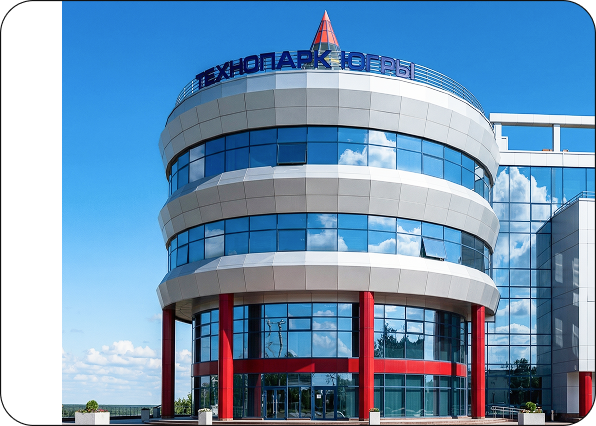
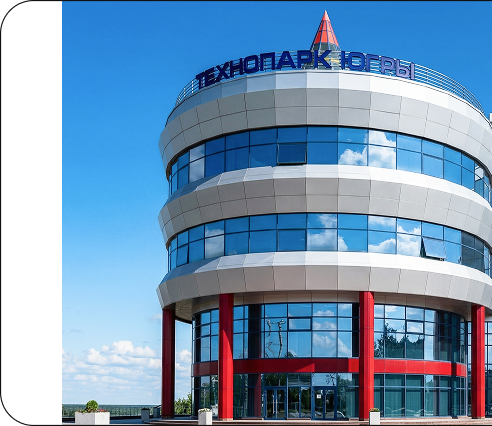
Фикс Hero

diff --git a/src/components/Hero.css b/src/components/Hero.css
@@ -123,6 +123,64 @@
   display: none;
 }
 
+@media (max-width: 1100px) and (min-width: 481px) {
+  .hero__card-wrapper {
+    aspect-ratio: auto;
+    min-height: 450px;  
+    width: 95%;      
+    margin: 0 auto;
+  }
+
+  .hero__content-overlay {
+    flex-direction: row;
+    padding: 0 40px;
+    align-items: center;
+  }
+
+  .hero__text-block {
+    flex: 1.5;
+  }
+
+  .hero__title {
+    font-size: clamp(28px, 4vw, 42px);
+    line-height: 1.2;
+    margin-bottom: 15px;
+  }
+
+  .hero__subtitle {
+    font-size: clamp(14px, 2.2vw, 20px);
+    margin-bottom: 25px;
+  }
+
+  .hero__image-block {
+    flex: 1;
+    display: flex;
+    justify-content: flex-end;
+  }
+
+  .hero__sensor {
+    max-width: 350px;
+    width: 100%;
+  }
+
+  .hero__shape--desktop {
+    object-fit:cover;
+    object-position: left top;
+  }
+}
+
+@media (max-height: 500px) and (orientation: landscape) {
+  .hero__title {
+    font-size: 24px;
+  }
+  .hero__card-wrapper {
+    min-height: 320px;
+  }
+  .hero__sensor {
+    max-width: 200px;
+  }
+}
+
 @media (max-width: 480px) {
   .hero {
     padding-top: 0;

diff --git a/src/components/ContactForm.jsx b/src/components/ContactForm.jsx
@@ -40,8 +40,8 @@ export default function ContactForm() {
               />
               <input 
                 type="text" 
-                name="lastName" 
-                placeholder="Фамилия" 
+                name="company" 
+                placeholder="Организация" 
                 className="contact__input"
                 onChange={handleChange}
               />

diff --git a/src/components/Principle.css b/src/components/Principle.css
@@ -13,7 +13,7 @@
 }
 
 .principle__title {
-  width: 80%;
+  width: 100%;
   font-family: 'TT Travels', sans-serif;
   font-size: clamp(32px, 4vw, 64px);
   line-height: 1.1;
